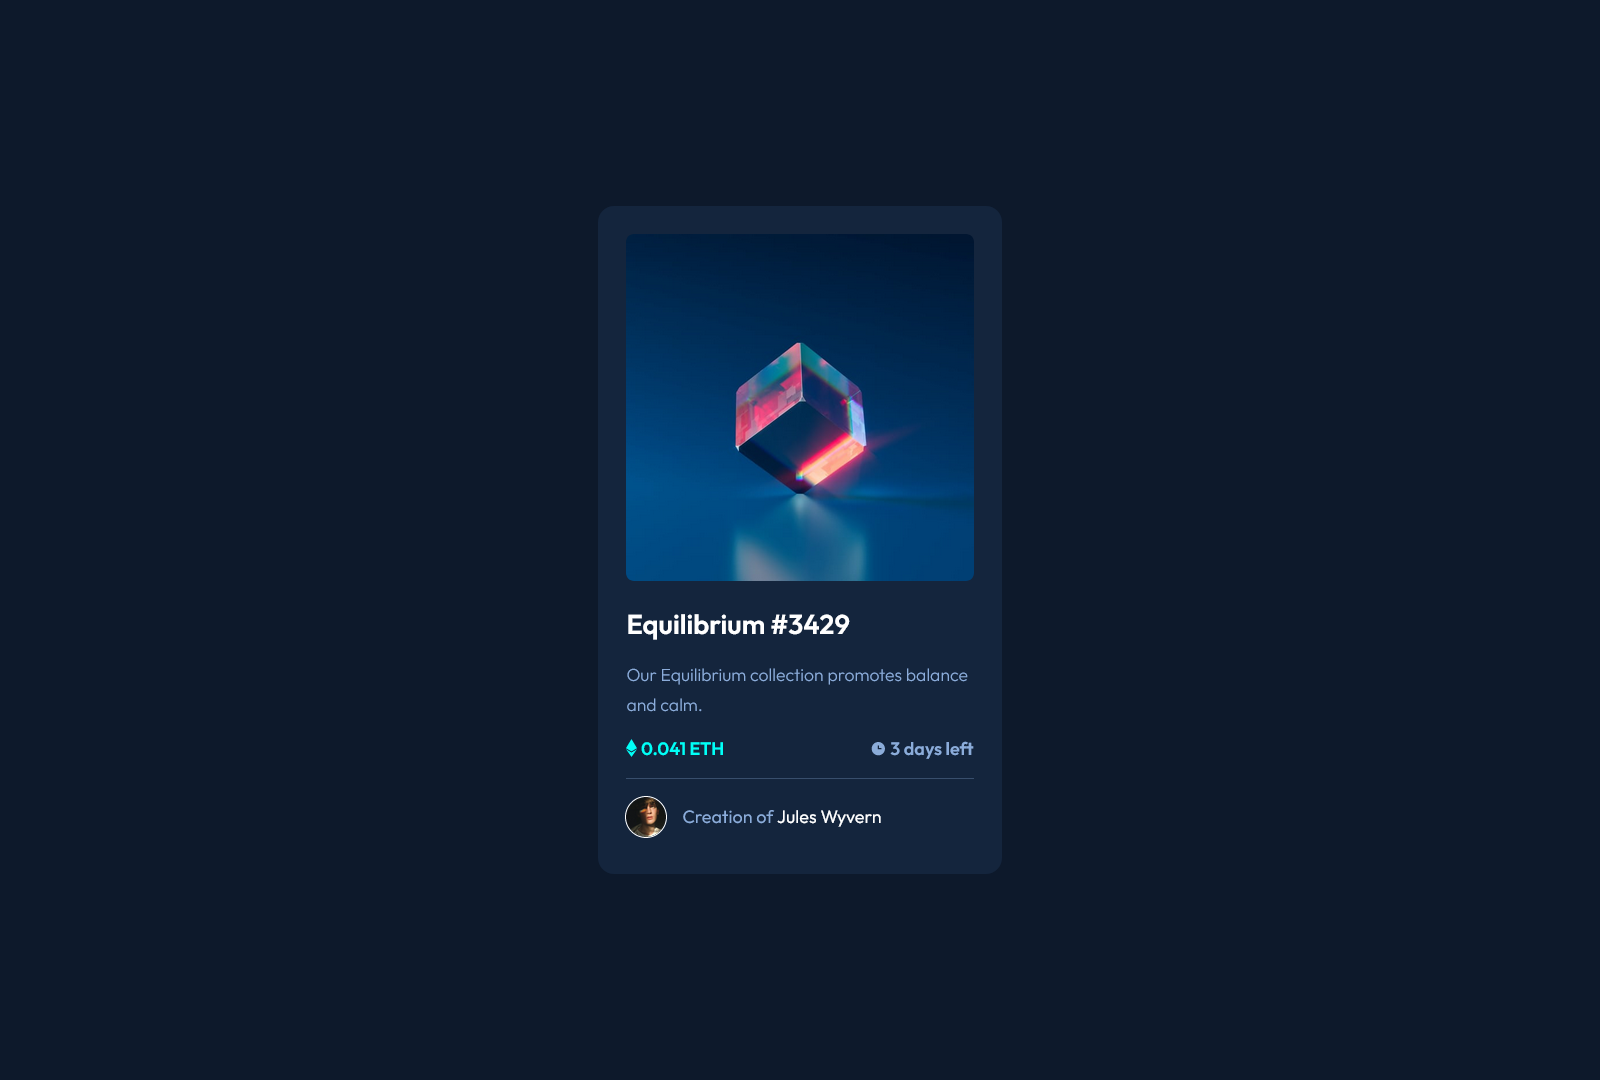
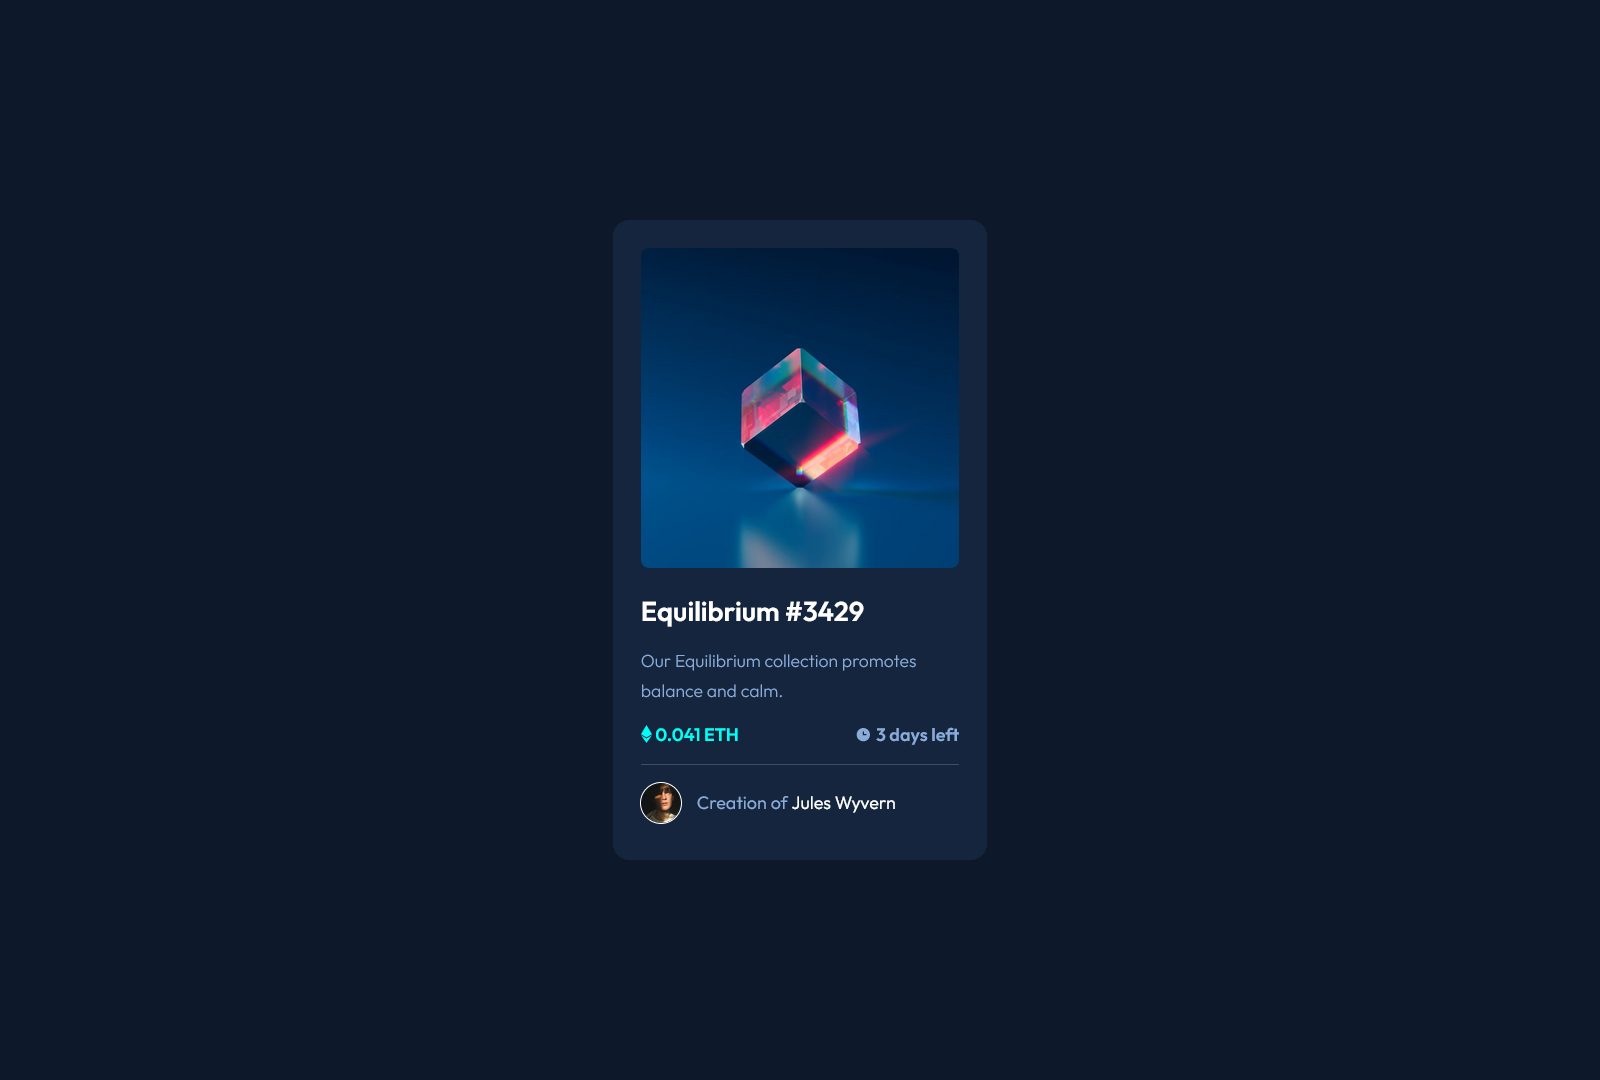
.

Changed region(s): [[0.375, 0.275, 0.625, 0.7944], [0.4375, 0.3056, 0.5625, 0.4889], [0.5312, 0.6722, 0.625, 0.7028]]

diff --git a/nft-preview-card-component-main/css/style.css b/nft-preview-card-component-main/css/style.css
@@ -26,7 +26,7 @@ a{
   text-decoration: none;
 }
 .card{
-  max-width:28rem;
+  max-width:26rem;
   width:90%;
   margin:3em auto;
   background-color: var(--Darkbluecard);
@@ -43,6 +43,7 @@ a{
   border-radius:0.3em;
   max-width:23rem;
   width:100%;
+  height:20rem;
 }
 .card .card__title{
   color: var(--White);
@@ -140,5 +141,7 @@ a{
 }
 
 @media  screen and (min-width:992px) {
-     
+      body{
+        justify-content: center;
+      }
 }

diff --git a/nft-preview-card-component-main/README-template.md b/nft-preview-card-component-main/README-template.md
@@ -10,13 +10,9 @@ This is a solution to the [NFT preview card component challenge on Frontend Ment
   - [Links](#links)
 - [My process](#my-process)
   - [Built with](#built-with)
-  - [What I learned](#what-i-learned)
-  - [Continued development](#continued-development)
-  - [Useful resources](#useful-resources)
 - [Author](#author)
-- [Acknowledgments](#acknowledgments)
 
-**Note: Delete this note and update the table of contents based on what sections you keep.**
+
 
 ## Overview
 
@@ -29,20 +25,16 @@ Users should be able to:
 
 ### Screenshot
 
-![](./screenshot.jpg)
+![](ui/lg.png)
+![](ui/sm.png)
 
-Add a screenshot of your solution. The easiest way to do this is to use Firefox to view your project, right-click the page and select "Take a Screenshot". You can choose either a full-height screenshot or a cropped one based on how long the page is. If it's very long, it might be best to crop it.
 
-Alternatively, you can use a tool like [FireShot](https://getfireshot.com/) to take the screenshot. FireShot has a free option, so you don't need to purchase it. 
 
-Then crop/optimize/edit your image however you like, add it to your project, and update the file path in the image above.
-
-**Note: Delete this note and the paragraphs above when you add your screenshot. If you prefer not to add a screenshot, feel free to remove this entire section.**
 
 ### Links
 
-- Solution URL: [Add solution URL here](https://your-solution-url.com)
-- Live Site URL: [Add live site URL here](https://your-live-site-url.com)
+- Solution URL: [ Solution URL](https://www.frontendmentor.io/solutions/nftpreviewcardcomponentmain-HkpSTgE4c)
+- Live Site URL: [Live Site URL](https://yn-nft-preview-card-component.netlify.app/)
 
 ## My process
 
@@ -51,61 +43,13 @@ Then crop/optimize/edit your image however you like, add it to your project, and
 - Semantic HTML5 markup
 - CSS custom properties
 - Flexbox
-- CSS Grid
 - Mobile-first workflow
-- [React](https://reactjs.org/) - JS library
-- [Next.js](https://nextjs.org/) - React framework
-- [Styled Components](https://styled-components.com/) - For styles
 
-**Note: These are just examples. Delete this note and replace the list above with your own choices**
 
-### What I learned
 
-Use this section to recap over some of your major learnings while working through this project. Writing these out and providing code samples of areas you want to highlight is a great way to reinforce your own knowledge.
-
-To see how you can add code snippets, see below:
-
-```html
-<h1>Some HTML code I'm proud of</h1>
-```
-```css
-.proud-of-this-css {
-  color: papayawhip;
-}
-```
-```js
-const proudOfThisFunc = () => {
-  console.log('🎉')
-}
-```
-
-If you want more help with writing markdown, we'd recommend checking out [The Markdown Guide](https://www.markdownguide.org/) to learn more.
-
-**Note: Delete this note and the content within this section and replace with your own learnings.**
-
-### Continued development
-
-Use this section to outline areas that you want to continue focusing on in future projects. These could be concepts you're still not completely comfortable with or techniques you found useful that you want to refine and perfect.
-
-**Note: Delete this note and the content within this section and replace with your own plans for continued development.**
-
-### Useful resources
-
-- [Example resource 1](https://www.example.com) - This helped me for XYZ reason. I really liked this pattern and will use it going forward.
-- [Example resource 2](https://www.example.com) - This is an amazing article which helped me finally understand XYZ. I'd recommend it to anyone still learning this concept.
-
-**Note: Delete this note and replace the list above with resources that helped you during the challenge. These could come in handy for anyone viewing your solution or for yourself when you look back on this project in the future.**
 
 ## Author
 
-- Website - [Add your name here](https://www.your-site.com)
-- Frontend Mentor - [@yourusername](https://www.frontendmentor.io/profile/yourusername)
-- Twitter - [@yourusername](https://www.twitter.com/yourusername)
+- Website - [Yehan Nilanga](https://www.your-site.com)
+- Frontend Mentor - [@Yehan20](https://www.frontendmentor.io/profile/Yehan20)
 
-**Note: Delete this note and add/remove/edit lines above based on what links you'd like to share.**
-
-## Acknowledgments
-
-This is where you can give a hat tip to anyone who helped you out on this project. Perhaps you worked in a team or got some inspiration from someone else's solution. This is the perfect place to give them some credit.
-
-**Note: Delete this note and edit this section's content as necessary. If you completed this challenge by yourself, feel free to delete this section entirely.**

diff --git a/nft-preview-card-component-main/README.md b/nft-preview-card-component-main/README.md
@@ -33,8 +33,8 @@ Users should be able to:
 
 ### Links
 
-- Solution URL: [Add solution URL here](https://your-solution-url.com)
-- Live Site URL: [Add live site URL here](https://your-live-site-url.com)
+- Solution URL: [ Solution URL](https://www.frontendmentor.io/solutions/nftpreviewcardcomponentmain-HkpSTgE4c)
+- Live Site URL: [Live Site URL](https://yn-nft-preview-card-component.netlify.app/)
 
 ## My process
 
@@ -50,7 +50,6 @@ Users should be able to:
 
 ## Author
 
-- Website - [Add your name here](https://www.your-site.com)
-- Frontend Mentor - [@yourusername](https://www.frontendmentor.io/profile/yourusername)
-- Twitter - [@yourusername](https://www.twitter.com/yourusername)
+- Website - [Yehan Nilanga](https://www.your-site.com)
+- Frontend Mentor - [@Yehan20](https://www.frontendmentor.io/profile/Yehan20)
 
